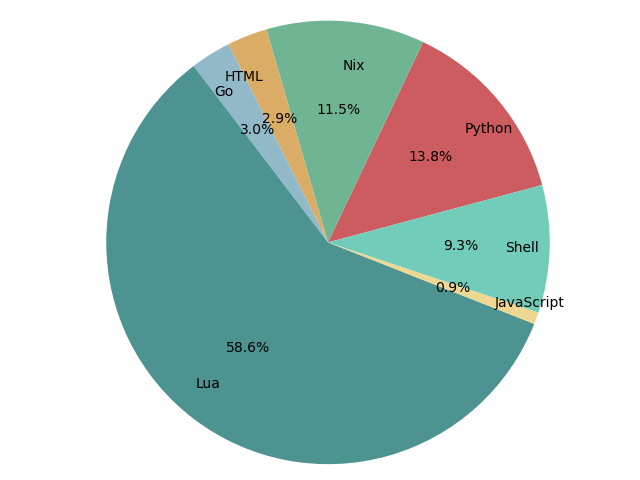
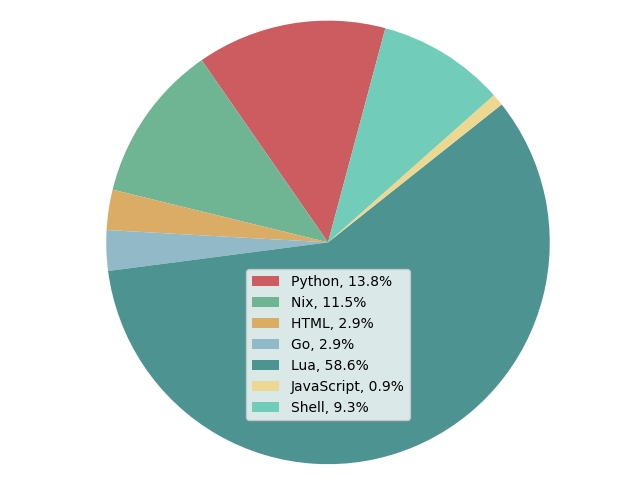
adding legend and modifying pie

diff --git a/main.py b/main.py
@@ -41,9 +41,11 @@ def generate_graph():
     for lang in LANGS:
         labels.append(lang)
         percentages.append(LANGS[lang][1])
-    
+    labels = [f'{l}, {s:0.1f}%' for l, s in zip(labels, percentages)]
+    # USE FONTS
     fig, ax = plt.subplots()
-    ax.pie(percentages, colors=colors, labels=labels, autopct='%1.1f%%', labeldistance=0.8, radius=1.5, startangle=15)
+    ax.pie(percentages, colors=colors, labels=labels, labeldistance=None, radius=1.5, startangle=75)
+    ax.legend()
     plt.savefig('assets/images/pie.png', transparent=True)
     plt.show()
 
